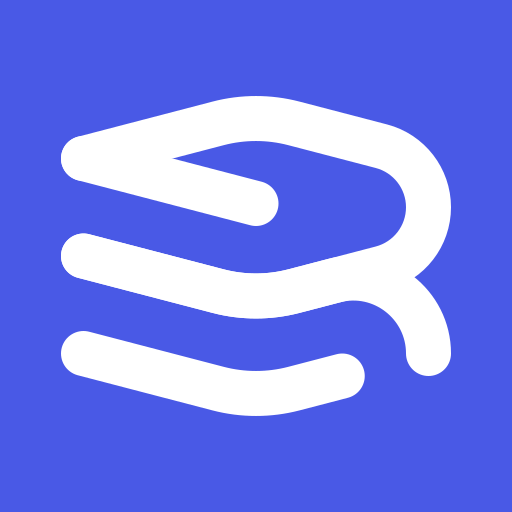
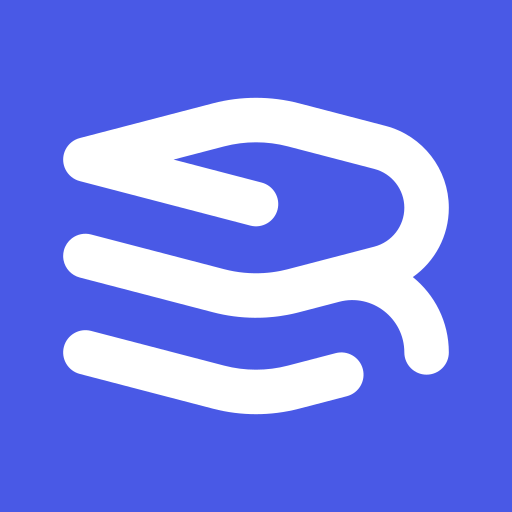
feat(brand): refine symbol (filled shapes, iOS grid) + maskable shapes preview
New symbol revision: solid filled shapes (was thin strokes), fitted to
the iOS app-icon grid (~78%, balanced margins). Verified the symbol
survives the circle mask (most aggressive) with margin to spare.

- public/brand: app-icon-master/ios/maskable + symbol.svg (currentColor)
  carry the new filled symbol ; SymbolMark.js updated to the fill paths
- favicons/app icons + 11 splash regenerated
- design-system: new "Maskable Android — shapes" card (Circle / Squircle
  / Rounded / Square previews of maskable-master) to validate the safe
  zone at a glance

diff --git a/components/brand/SymbolMark.js b/components/brand/SymbolMark.js
@@ -9,9 +9,8 @@ export default function SymbolMark({ className, style, title = "Readr" }) {
       role="img"
       aria-label={title}
     >
-      <path d="M144 304L512 400" stroke="currentColor" strokeWidth="96" strokeLinecap="round" strokeLinejoin="round" />
-      <path d="M144 304L431.225 229.072C484.189 215.255 539.811 215.255 592.775 229.072L779.368 277.748C838.641 293.211 880 346.743 880 408C880 469.257 838.641 522.789 779.368 538.252L592.775 586.928C539.811 600.745 484.189 600.745 431.225 586.928L144 512" stroke="currentColor" strokeWidth="96" strokeLinecap="round" strokeLinejoin="round" />
-      <path d="M144 512L431.225 586.928C484.189 600.745 539.811 600.745 592.775 586.928L679.612 564.275C780.986 537.83 880 615.234 880 720M144 720L431.225 794.928C484.189 808.745 539.811 808.745 592.775 794.928L696 768" stroke="currentColor" strokeWidth="96" strokeLinecap="round" strokeLinejoin="round" />
+      <path d="M127.775 693.601C133.978 669.82 158.285 655.571 182.066 661.774L448.348 731.239C490.084 742.127 533.916 742.127 575.653 731.239L671.351 706.274C695.131 700.071 719.438 714.32 725.642 738.101C731.846 761.881 717.596 786.189 693.816 792.393L598.117 817.357C541.651 832.088 482.349 832.088 425.882 817.357L159.601 747.893C135.82 741.689 121.571 717.381 127.775 693.601Z" fill="currentColor" />
+      <path d="M425.882 206.644C482.349 191.913 541.651 191.913 598.118 206.644L771.105 251.771C845.651 271.217 897.666 338.543 897.666 415.584C897.666 471.958 869.812 523.128 825.661 554.146C869.15 589.33 897.666 643.198 897.666 704.833C897.666 729.41 877.743 749.333 853.166 749.333C828.59 749.333 808.666 729.41 808.666 704.833C808.666 636.499 744.097 586.485 678.686 603.506L598.117 624.524C596.572 624.928 595.023 625.316 593.474 625.697C591.324 626.226 589.17 626.735 587.013 627.221C585.556 627.549 584.097 627.868 582.637 628.177C582.297 628.249 581.957 628.321 581.616 628.392C580.196 628.688 578.773 628.974 577.35 629.252C571.698 630.355 566.025 631.315 560.336 632.129C558.786 632.351 557.234 632.561 555.681 632.762C555.451 632.791 555.221 632.821 554.99 632.851C553.408 633.052 551.825 633.241 550.24 633.42C549.236 633.533 548.231 633.644 547.226 633.748C542.722 634.216 538.211 634.593 533.696 634.881C532.746 634.941 531.796 634.997 530.846 635.05C527.303 635.246 523.758 635.386 520.212 635.472C517.475 635.538 514.738 635.571 512 635.571C483.058 635.571 454.116 631.89 425.882 624.524L159.601 555.06C141.765 550.407 129.292 535.571 126.786 518.411C126.511 516.522 126.358 514.604 126.33 512.669C126.274 508.745 126.736 504.749 127.775 500.768C133.978 476.987 158.285 462.738 182.066 468.941L448.348 538.406C481.607 547.082 516.196 548.844 549.995 543.692C552.646 543.288 555.292 542.842 557.932 542.353C559.252 542.108 560.571 541.853 561.888 541.587C565.839 540.79 569.776 539.897 573.695 538.908C574.348 538.743 575 538.575 575.653 538.405L656.157 517.404C656.214 517.389 656.271 517.374 656.328 517.359L748.639 493.279C783.995 484.056 808.666 452.124 808.666 415.584C808.666 379.044 783.995 347.112 748.639 337.889L575.653 292.762C533.916 281.874 490.084 281.873 448.348 292.761L347.123 319.167L523.233 365.108C547.013 371.312 561.262 395.619 555.059 419.399C548.855 443.18 524.547 457.429 500.767 451.226L160.324 362.414C158.691 362.016 157.086 361.524 155.516 360.947C155.393 360.903 155.271 360.858 155.149 360.813C155.023 360.765 154.897 360.715 154.772 360.666C149.105 358.481 144.098 355.223 139.926 351.189C139.882 351.146 139.838 351.104 139.794 351.062C139.65 350.921 139.507 350.778 139.364 350.635C139.222 350.492 139.079 350.35 138.938 350.205C138.896 350.162 138.854 350.118 138.812 350.074C134.79 345.915 131.539 340.927 129.354 335.282C129.29 335.119 129.226 334.955 129.164 334.791C129.144 334.736 129.123 334.68 129.103 334.625C127.447 330.166 126.495 325.419 126.346 320.55C126.343 320.473 126.34 320.397 126.338 320.32C126.332 320.088 126.331 319.855 126.328 319.622C126.327 319.47 126.325 319.318 126.324 319.166C126.325 319.014 126.327 318.862 126.328 318.71C126.331 318.477 126.332 318.244 126.338 318.012C126.34 317.935 126.343 317.859 126.346 317.782C126.495 312.914 127.446 308.166 129.103 303.707C129.123 303.652 129.144 303.596 129.164 303.541C129.224 303.382 129.285 303.224 129.347 303.065C131.532 297.415 134.786 292.421 138.812 288.258C138.854 288.214 138.896 288.17 138.938 288.127C139.079 287.982 139.222 287.84 139.364 287.697C139.507 287.554 139.65 287.412 139.794 287.271C139.838 287.228 139.882 287.186 139.926 287.144C144.098 283.11 149.105 279.851 154.772 277.666C154.897 277.617 155.023 277.567 155.149 277.52C155.271 277.474 155.393 277.43 155.516 277.385C157.098 276.803 158.715 276.309 160.362 275.909L425.882 206.644Z" fill="currentColor" />
     </svg>
   );
 }

diff --git a/app/design-system/ds.css b/app/design-system/ds.css
@@ -577,6 +577,17 @@
 .app-icon-detail { font-size: 13px; color: var(--text); line-height: 1.4; }
 .splash-preview-row { display: flex; gap: 24px; flex-wrap: wrap; align-items: flex-start; }
 .splash-preview { height: 440px; width: auto; display: block; border: 1px solid var(--border-subtle); border-radius: 20px; background: #FEFEFF; }
+.maskable-shapes-row { display: flex; gap: 28px; flex-wrap: wrap; }
+.maskable-shape-card { display: flex; flex-direction: column; align-items: center; gap: 10px; }
+.maskable-shape { width: 104px; height: 104px; overflow: hidden; flex-shrink: 0; }
+.maskable-shape-img { width: 100%; height: 100%; display: block; }
+/* Android adaptive-icon mask shapes (approximated). Circle is the most
+   aggressive — reveals if the symbol's edges survive the safe zone. */
+.maskable-shape--circle { border-radius: 50%; }
+.maskable-shape--squircle { border-radius: 32px; }
+.maskable-shape--rounded { border-radius: 22px; }
+.maskable-shape--square { border-radius: 0; }
+.maskable-shape-label { font-size: 11px; font-weight: 600; letter-spacing: 0.04em; color: var(--text-3); }
 .logo-clearspace { width: 100%; background: var(--bg3); border-radius: var(--radius); display: flex; align-items: center; justify-content: center; padding: 24px; }
 .logo-clearspace-frame { position: relative; padding: 52px; display: flex; align-items: center; justify-content: center; }
 .logo-clearspace-frame::before { content: ''; position: absolute; inset: 0; border: 1px dashed var(--primary-50); border-radius: 4px; opacity: 0.5; pointer-events: none; }

diff --git a/app/design-system/page.js b/app/design-system/page.js
@@ -392,6 +392,22 @@ export default function DesignSystemPage() {
               </div>
             </div>
             <div className="ds-card">
+              <div className="ds-card-head">Maskable Android — shapes</div>
+              <div className="ds-card-body col padded">
+                <div className="maskable-shapes-row">
+                  {[["circle","Circle"],["squircle","Squircle"],["rounded","Rounded"],["square","Square"]].map(([shape,label]) => (
+                    <div key={shape} className="maskable-shape-card">
+                      <div className={`maskable-shape maskable-shape--${shape}`}>
+                        <img src="/brand/maskable-master.svg" alt="" className="maskable-shape-img" />
+                      </div>
+                      <span className="maskable-shape-label">{label}</span>
+                    </div>
+                  ))}
+                </div>
+                <div className="app-icon-detail">Aperçu de <code>maskable-master.svg</code> sous les masques qu'Android applique selon le launcher. Le symbole doit rester entièrement visible dans chaque forme (safe zone 80%) — s'il est rogné, réduire le symbole dans le master.</div>
+              </div>
+            </div>
+            <div className="ds-card">
               <div className="ds-card-head">Splash screen — iOS launch</div>
               <div className="ds-card-body col padded">
                 <div className="splash-preview-row">
